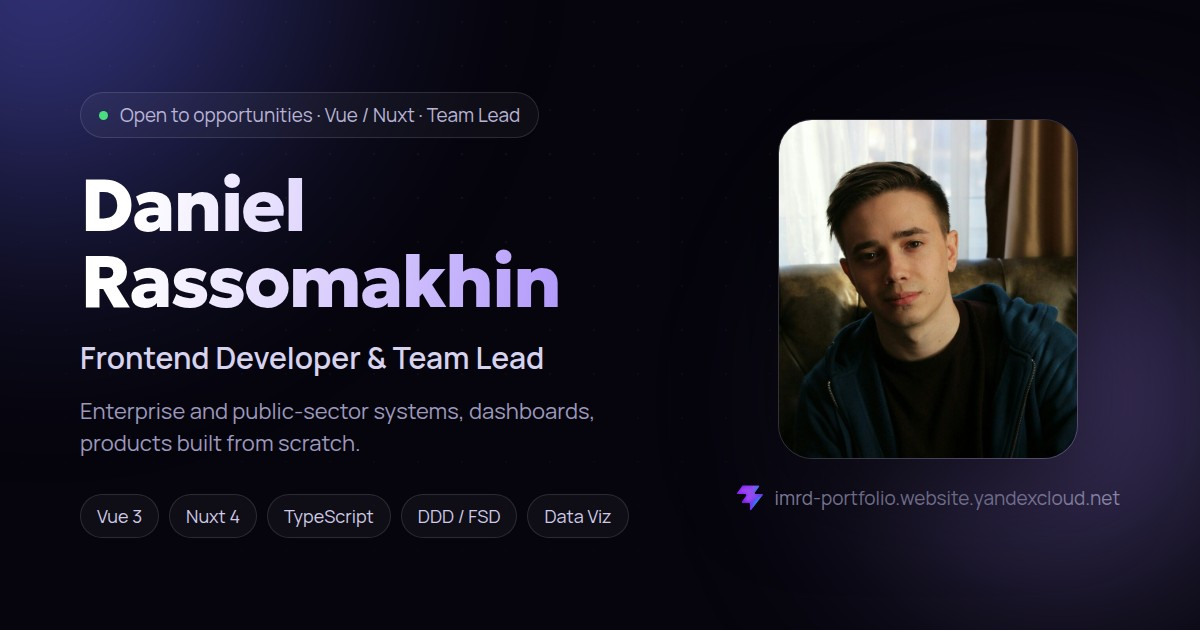
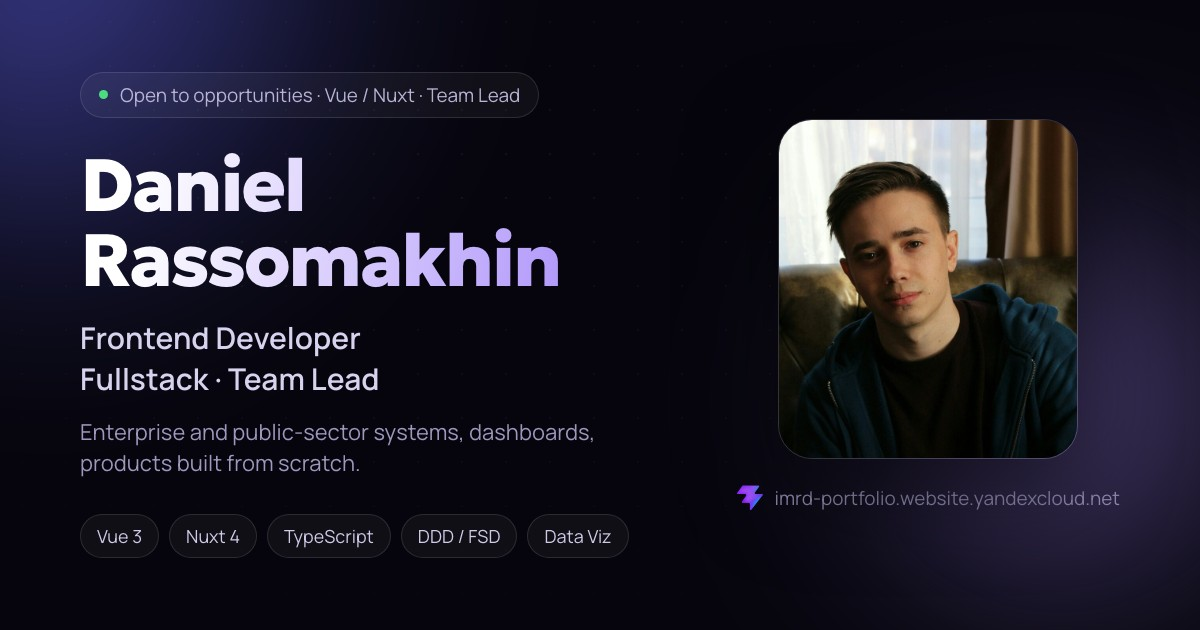
feat(hero): the role reads Senior Frontend Developer · Fullstack · Team Lead
Frontend stays first, fullstack comes as the second line of the role: in the hero,
the page title and description, the structured data, the web manifest, the README
and the social cards. On a narrow screen and on the cards the role breaks after the
title, so no dot is left hanging at a line's end.

diff --git a/src/pages/home/views/sections/HeroSection.vue b/src/pages/home/views/sections/HeroSection.vue
@@ -1,10 +1,16 @@
 <script setup lang="ts">
-import { onBeforeUnmount, onMounted, reactive, ref, useTemplateRef } from 'vue'
+import { computed, onBeforeUnmount, onMounted, reactive, ref, useTemplateRef } from 'vue'
 import { useI18n } from 'vue-i18n'
 import { INK_IMAGE } from './hero/config'
 import type { Caption, InkScene } from './hero/lib/scene'
 
 const { t } = useI18n()
+// the role in two parts, the title and the rest ("Fullstack · Team Lead"): on a narrow
+// screen each takes a line of its own, instead of a dot left hanging at a line's end
+const role = computed(() => {
+  const [title, ...rest] = t('home.hero.role').split(' · ')
+  return { title, rest: rest.join(' · ') }
+})
 
 const root = useTemplateRef<HTMLElement>('root')
 const stage = useTemplateRef<HTMLElement>('stage')
@@ -169,7 +175,11 @@ function toggleFog() {
               class="hero__role"
               :class="{ 'hero__role--shown': shown.role }"
             >
-              {{ t('home.hero.role') }}
+              <span class="hero__role-part">{{ role.title }}</span>
+              <template v-if="role.rest">
+                <span class="hero__role-sep"> · </span>
+                <span class="hero__role-part">{{ role.rest }}</span>
+              </template>
             </p>
           </div>
 
@@ -538,7 +548,19 @@ function toggleFog() {
     }
   }
 
+  &__role-part {
+    white-space: nowrap;
+  }
+
   @media (width <= 700px) {
+    &__role-sep {
+      display: none;
+    }
+
+    &__role-part {
+      display: block;
+    }
+
     &__control {
       top: auto;
       right: auto;

diff --git a/README.md b/README.md
@@ -1,6 +1,6 @@
 # Daniel Rassomakhin — Portfolio
 
-Личный сайт-портфолио frontend-разработчика и Team Lead. Vue 3 + Vite + TypeScript, анимации на GSAP, дизайн-токены, две локали и **пререндер в статику**: каждый маршрут собирается в готовый HTML, браузер потом гидрирует ту же разметку.
+Личный сайт-портфолио frontend-разработчика с fullstack-опытом и Team Lead. Vue 3 + Vite + TypeScript, анимации на GSAP, дизайн-токены, две локали и **пререндер в статику**: каждый маршрут собирается в готовый HTML, браузер потом гидрирует ту же разметку.
 
 ```bash
 npm install && npm run dev
